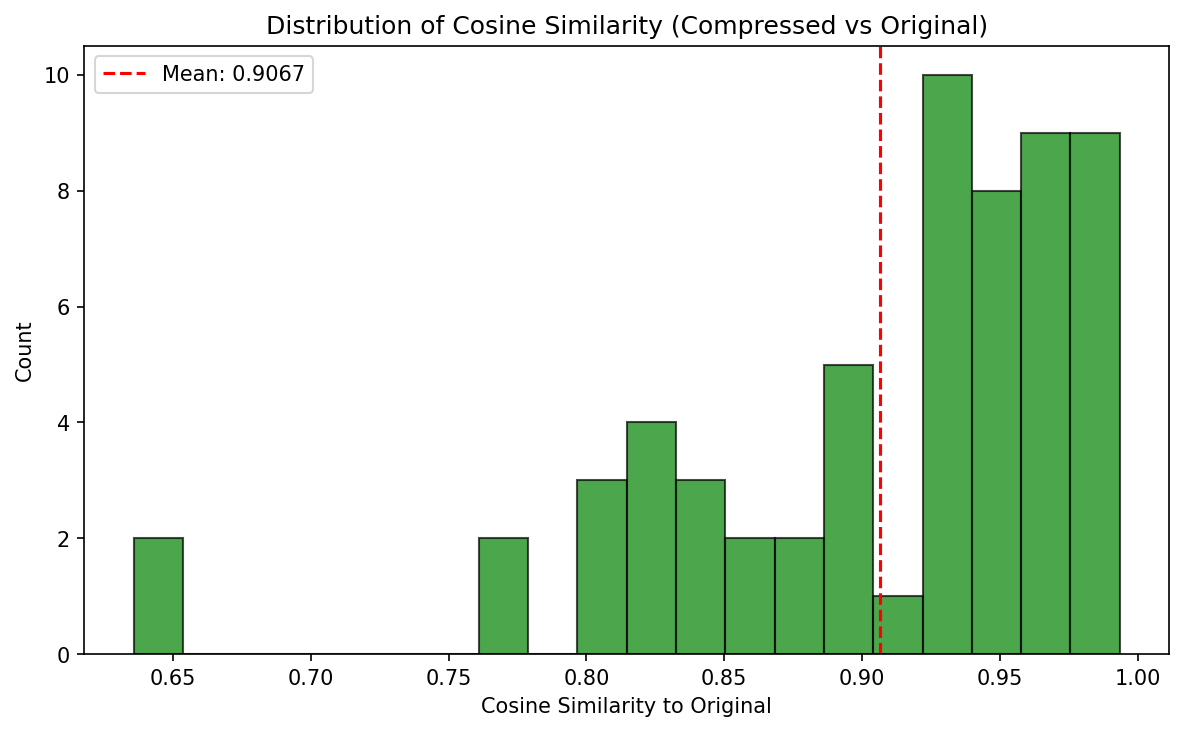
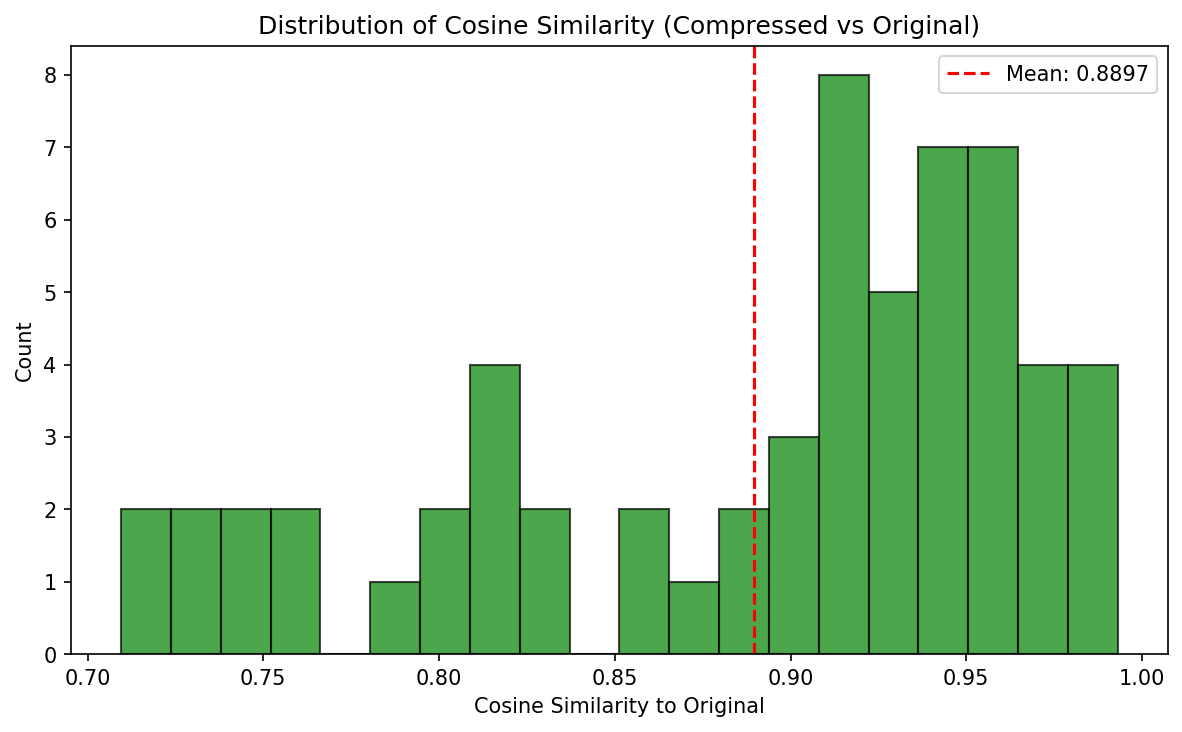
Fixed major error in attention seam carving

diff --git a/Image_Compression_Testing/api.py b/Image_Compression_Testing/api.py
@@ -125,14 +125,14 @@ def compute_gradient_energy(img_array):
     return energy
 
 
-def compute_combined_energy(img_array, attention_map, gradient_weight=0.8):
+def compute_combined_energy(img_array, attention_map, gradient_weight=0.0):
     """
     Compute combined energy: gradient + attention.
 
     Args:
         img_array: Image as numpy array
         attention_map: Attention values (higher = more important)
-        gradient_weight: Weight for gradient energy (default 0.8 = 80% gradient, 20% attention)
+        gradient_weight: Weight for gradient energy (default 0.0 = 0% gradient, 100% attention)
 
     Returns:
         Combined energy map (lower = more likely to be removed)
@@ -140,8 +140,8 @@ def compute_combined_energy(img_array, attention_map, gradient_weight=0.8):
     # Gradient energy (edges have high energy, should be preserved)
     gradient_energy = compute_gradient_energy(img_array)
 
-    # Attention energy (invert: low attention = high energy = remove first)
-    attention_energy = 1.0 - attention_map
+    # Attention energy (high attention = high energy = preserve)
+    attention_energy = attention_map
 
     # Normalize attention energy
     attention_energy = (attention_energy - attention_energy.min()) / (attention_energy.max() - attention_energy.min() + 1e-8)
@@ -203,7 +203,7 @@ def remove_horizontal_seam(img_array, seam):
     return np.transpose(remove_vertical_seam(np.transpose(img_array, (1, 0, 2)) if img_array.ndim == 3 else img_array.T, seam), (1, 0, 2) if img_array.ndim == 3 else (1, 0))
 
 
-def seam_carve_image(img, attention_map, target_reduction, gradient_weight=0.8):
+def seam_carve_image(img, attention_map, target_reduction, gradient_weight=0.0):
     """
     Perform seam carving to reduce image size.
     Uses combined energy: gradient (edges) + attention.
@@ -212,7 +212,7 @@ def seam_carve_image(img, attention_map, target_reduction, gradient_weight=0.8):
         img: PIL Image
         attention_map: Attention values from DINOv2
         target_reduction: Target pixel reduction (0-1)
-        gradient_weight: Weight for gradient energy (0.8 = 80% gradient, 20% attention)
+        gradient_weight: Weight for gradient energy (0.0 = 0% gradient, 100% attention)
     """
     img_array = np.array(img)
     h, w = img_array.shape[:2]

diff --git a/Image_Compression_Testing/benchmark.py b/Image_Compression_Testing/benchmark.py
@@ -1,9 +1,9 @@
 #!/opt/anaconda3/bin/python
 """
-Benchmark attention-guided seam carving compression on images in a folder.
+Benchmark attention-only seam carving compression (100% DINOv2 attention, no Sobel).
 
 Usage:
-    python benchmark.py --folder /path/to/images [--reduction 0.3] [--output Graphs]
+    python benchmark.py --folder /path/to/images [--reduction 0.3] [--output output]
 """
 
 import argparse
